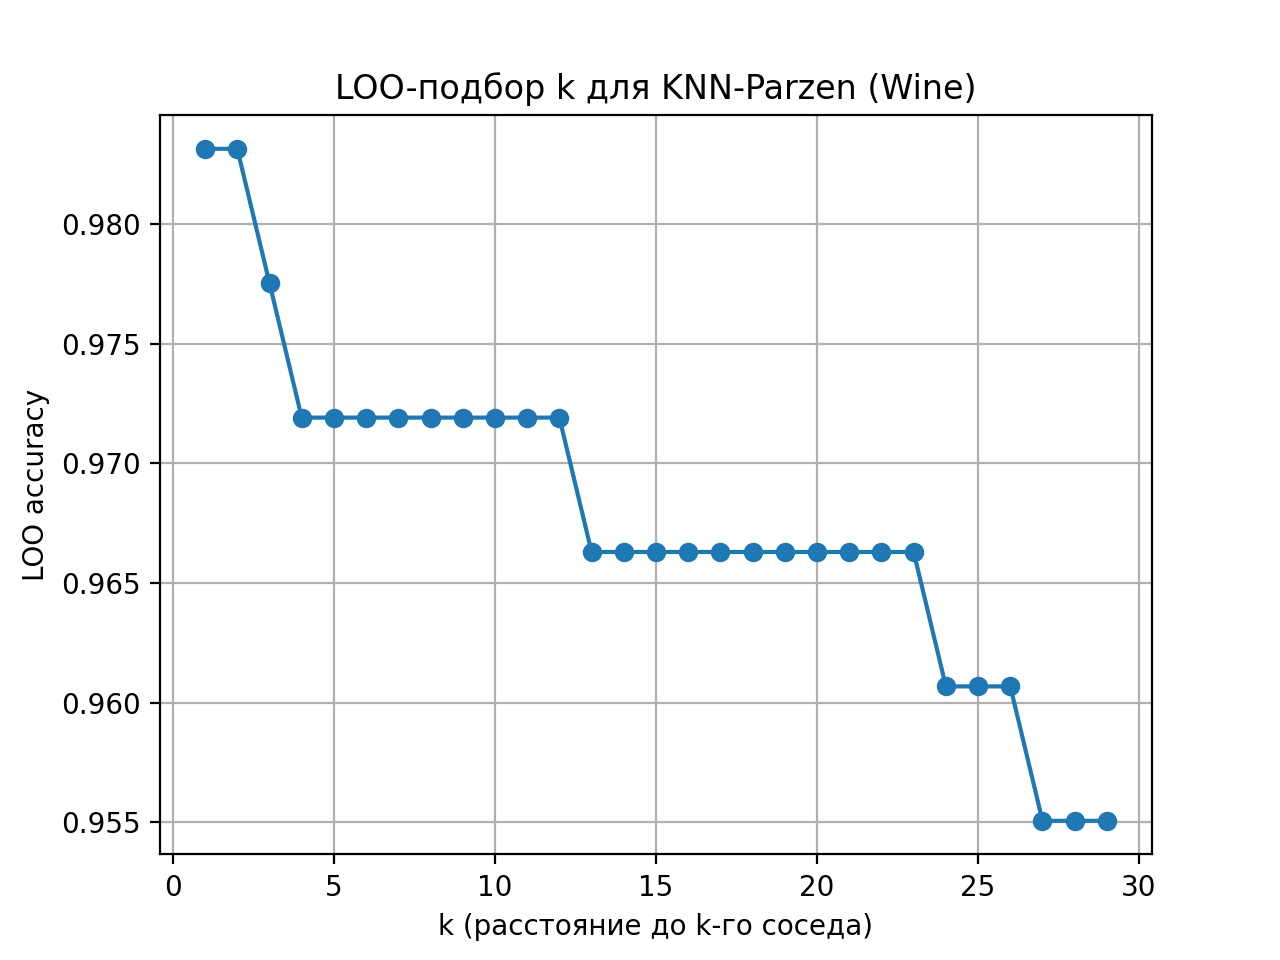
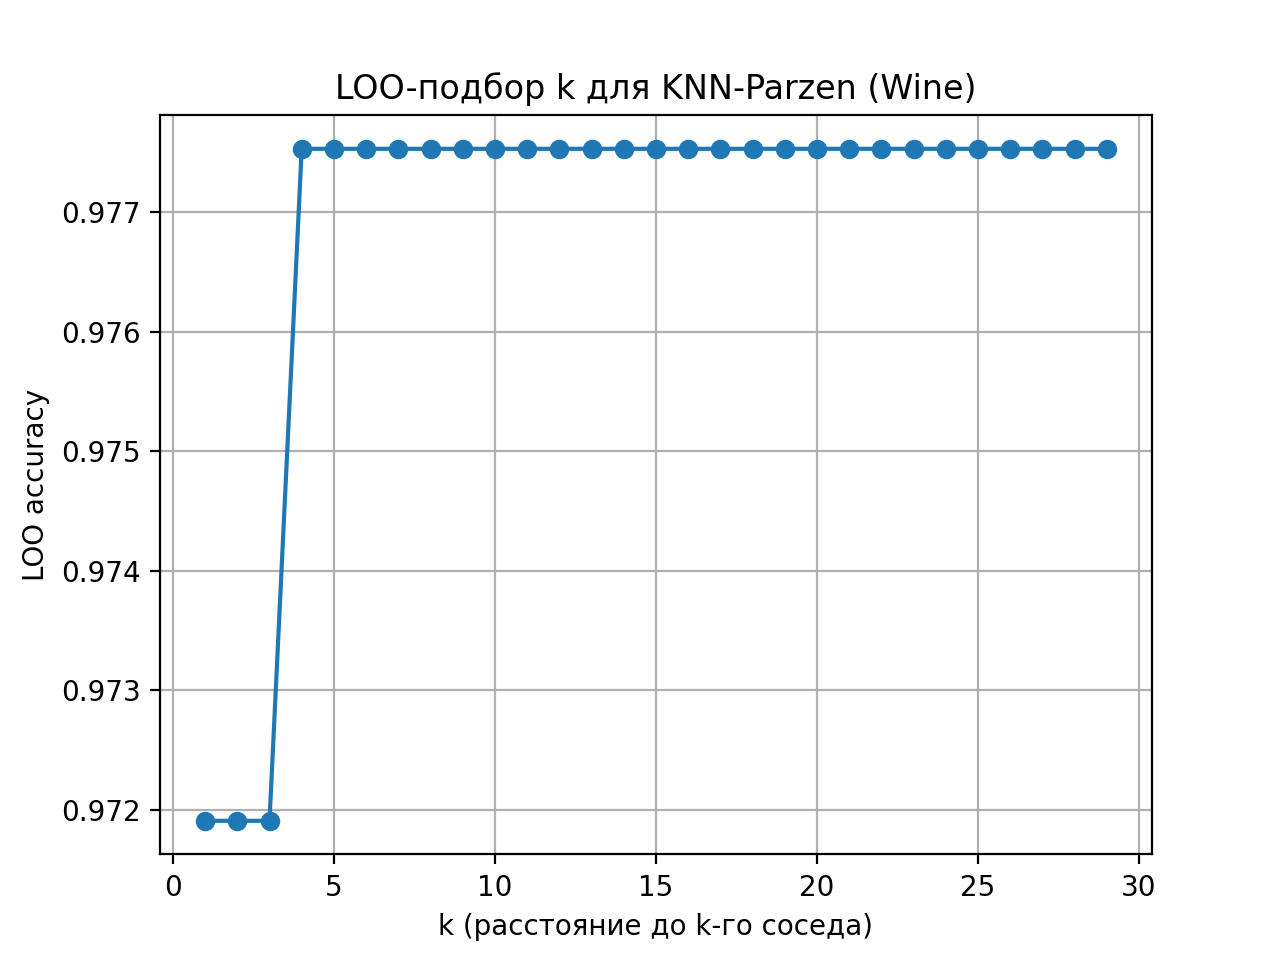
fix-koef

Changed region(s): [[0.0312, 0.125, 0.875, 0.875], [0.0312, 0.6562, 0.25, 0.875], [0.0312, 0.6875, 0.125, 0.75]]

diff --git a/students/shinyakov-ad/lab2/model/model.py b/students/shinyakov-ad/lab2/model/model.py
@@ -14,7 +14,7 @@ class KNNParzen:
     def _gaussian_kernel(self, distances, h):
         h = max(h, self.eps)
         q = (distances / h) ** 2
-        return np.exp(-0.5 * q)
+        return np.exp(-2 * q)
 
     def _predict_point(self, x):
         dists = np.linalg.norm(self.X - x, axis=1)

diff --git a/students/shinyakov-ad/lab2/README.md b/students/shinyakov-ad/lab2/README.md
@@ -37,7 +37,7 @@ LOO-процедура: для каждого k=1..30 выполняется Lea
 **Результаты LOO (Wine):**
 
 
-**Оптимальное значение:** `k = 1` или `k = 2` (оба дают LOO = 0.9831).
+**Оптимальное значение:** `k = 4`.
 
 График эмпирического риска (LOO accuracy vs k):  
 
@@ -66,9 +66,9 @@ LOO-процедура: для каждого k=1..30 выполняется Lea
 
 | Модель                    | Accuracy |
 |---------------------------|----------|
-| Parzen-KNN                | **1.000** |
-| sklearn KNN (uniform)     | 0.963    |
-| sklearn KNN (distance)    | 0.963    |
+| Parzen-KNN                | 0.962    |
+| sklearn KNN (uniform)     | 0.962    |
+| sklearn KNN (distance)    | 0.962    |
 
 **Вывод:** Parzen-KNN (с адаптивным h и гауссовым ядром) показывает более высокую точность на данном разбиении.
 
@@ -106,31 +106,30 @@ LOO-процедура: для каждого k=1..30 выполняется Lea
 
 - Полный train (без отбора): Parzen-KNN accuracy = **1.0**
 - После **CNN**:
-  - CNN selected: **23** из 178 (очень агрессивное сжатие)
-  - KNN on CNN prototypes acc: **0.978**
-  - Вывод: сильная компрессия привела к относительно значительной потере качества.
+  - CNN selected: **21** из 178 (очень агрессивное сжатие)
+  - KNN on CNN prototypes acc: **1**
+  - Вывод: на удивление точность повысилась.
 - После **ENN**:
-  - ENN selected: **175** из 178
-  - Parzen KNN on ENN prototypes acc: **0.983**
-  - Вывод: ENN удалил шум и не уменьшил качество; Parzen-KNN устойчив к такой очистке.
+  - ENN selected: **177** из 178
+  - Parzen KNN on ENN prototypes acc: **0.994**
+  - Вывод: вероятно, один из трех выбросов все же повлиял на качество.
 
 Таблица итогов:
 
 | Метод                      | Кол-во прототипов | Accuracy |
 |---------------------------:|------------------:|---------:|
-| Parzen-KNN                 | -                 | 1.000    |
+| Parzen-KNN                 | -                 | 0.963    |
 | sklearn KNN                | -                 | 0.963    |
-| CNN                        | 23                | 0.978    |
-| ENN                        | 175               | 0.983    |
+| CNN                        | 23                | 1.000    |
+| ENN                        | 175               | 0.994    |
 
 ---
 
 
 - Parzen-KNN с адаптивной шириной окна и гауссовым ядром даёт лучшее качество на Wine (в экспериментах — 100% на тесте).  
-- LOO-подбор показал, что малые k (1–2) оптимальны для определения \(h\) в данном наборе.  
-- CNN слишком агрессивен для этого набора: сильное сжатие привело к потере качества.  
-- ENN — щадящий метод очистки: удалил немного «шумовых» объектов и сохранил/улучшил качество.  
-- Для практических задач рекомендуется использовать Parzen-KNN совместно с ENN при необходимости убрать шум и снизить вычислительную нагрузку умеренно.
+- LOO-подбор показал, что k=4 оптимально для определения \(h\) в данном наборе.  
+- CNN вопреки ожиданиям улучшил результат до идеального.  
+- ENN — удалил 1 выброс за счет чего улучшил качество до 0.994.
 
 ---
 
